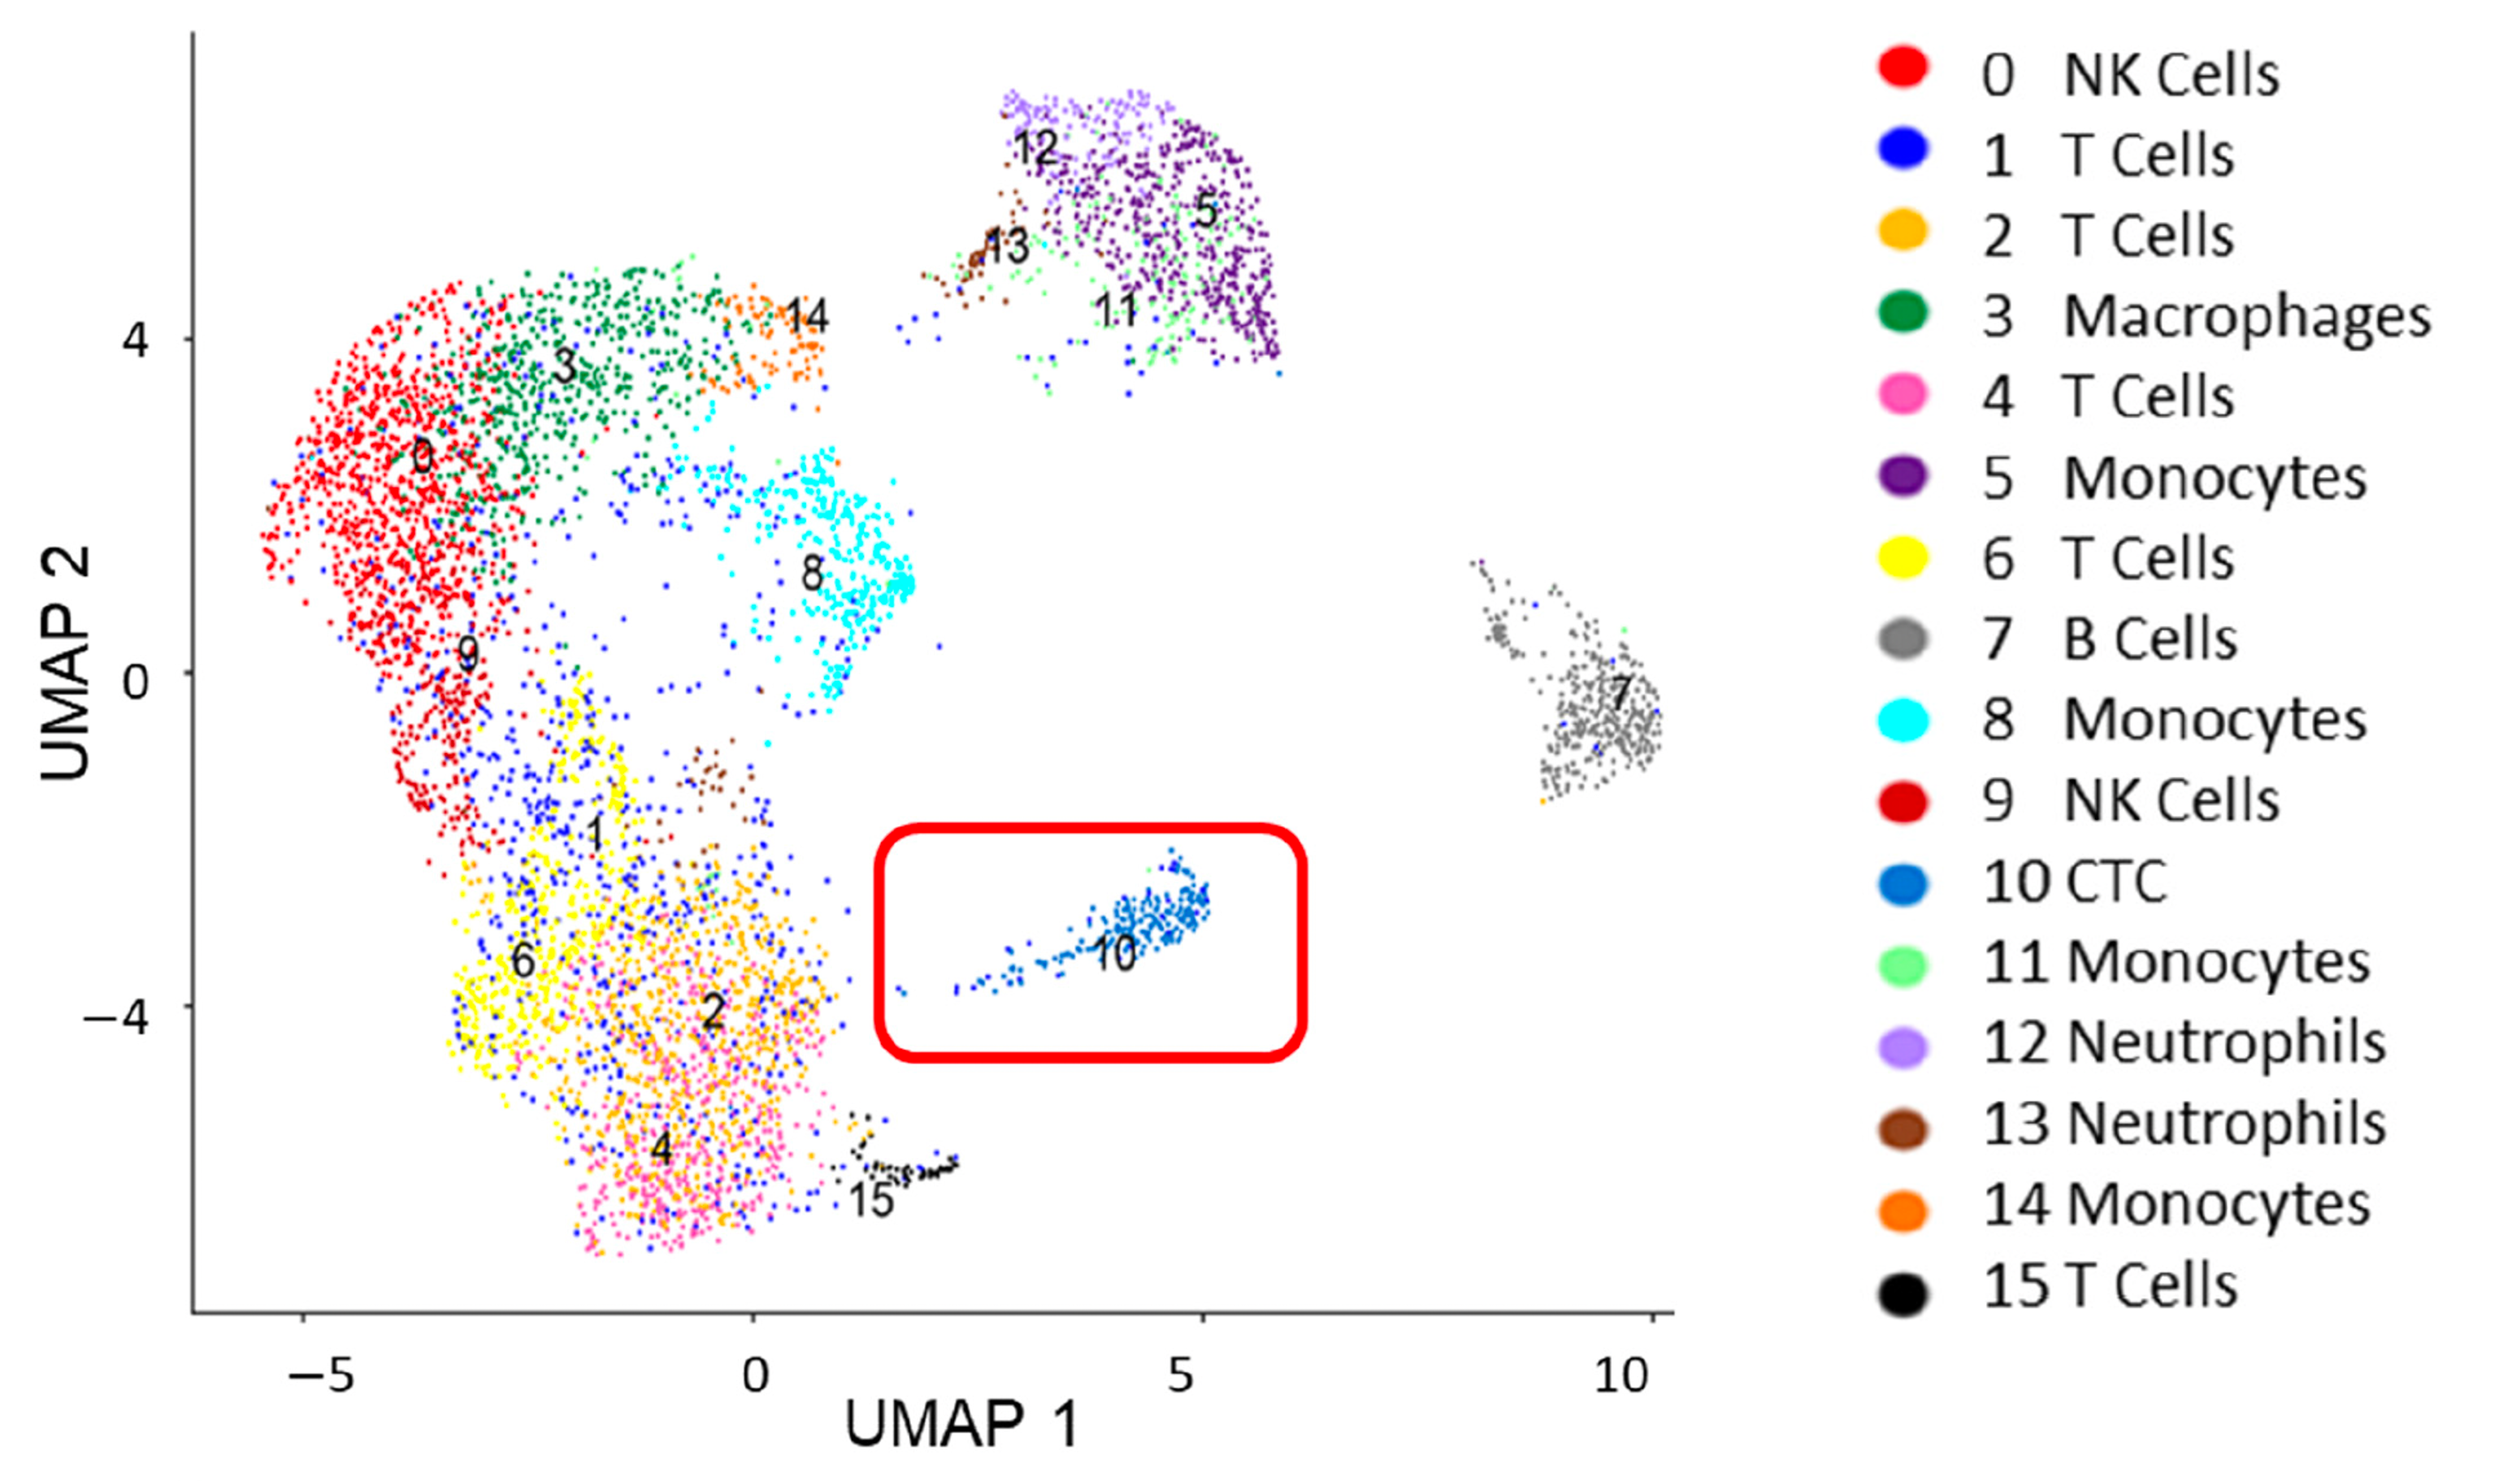
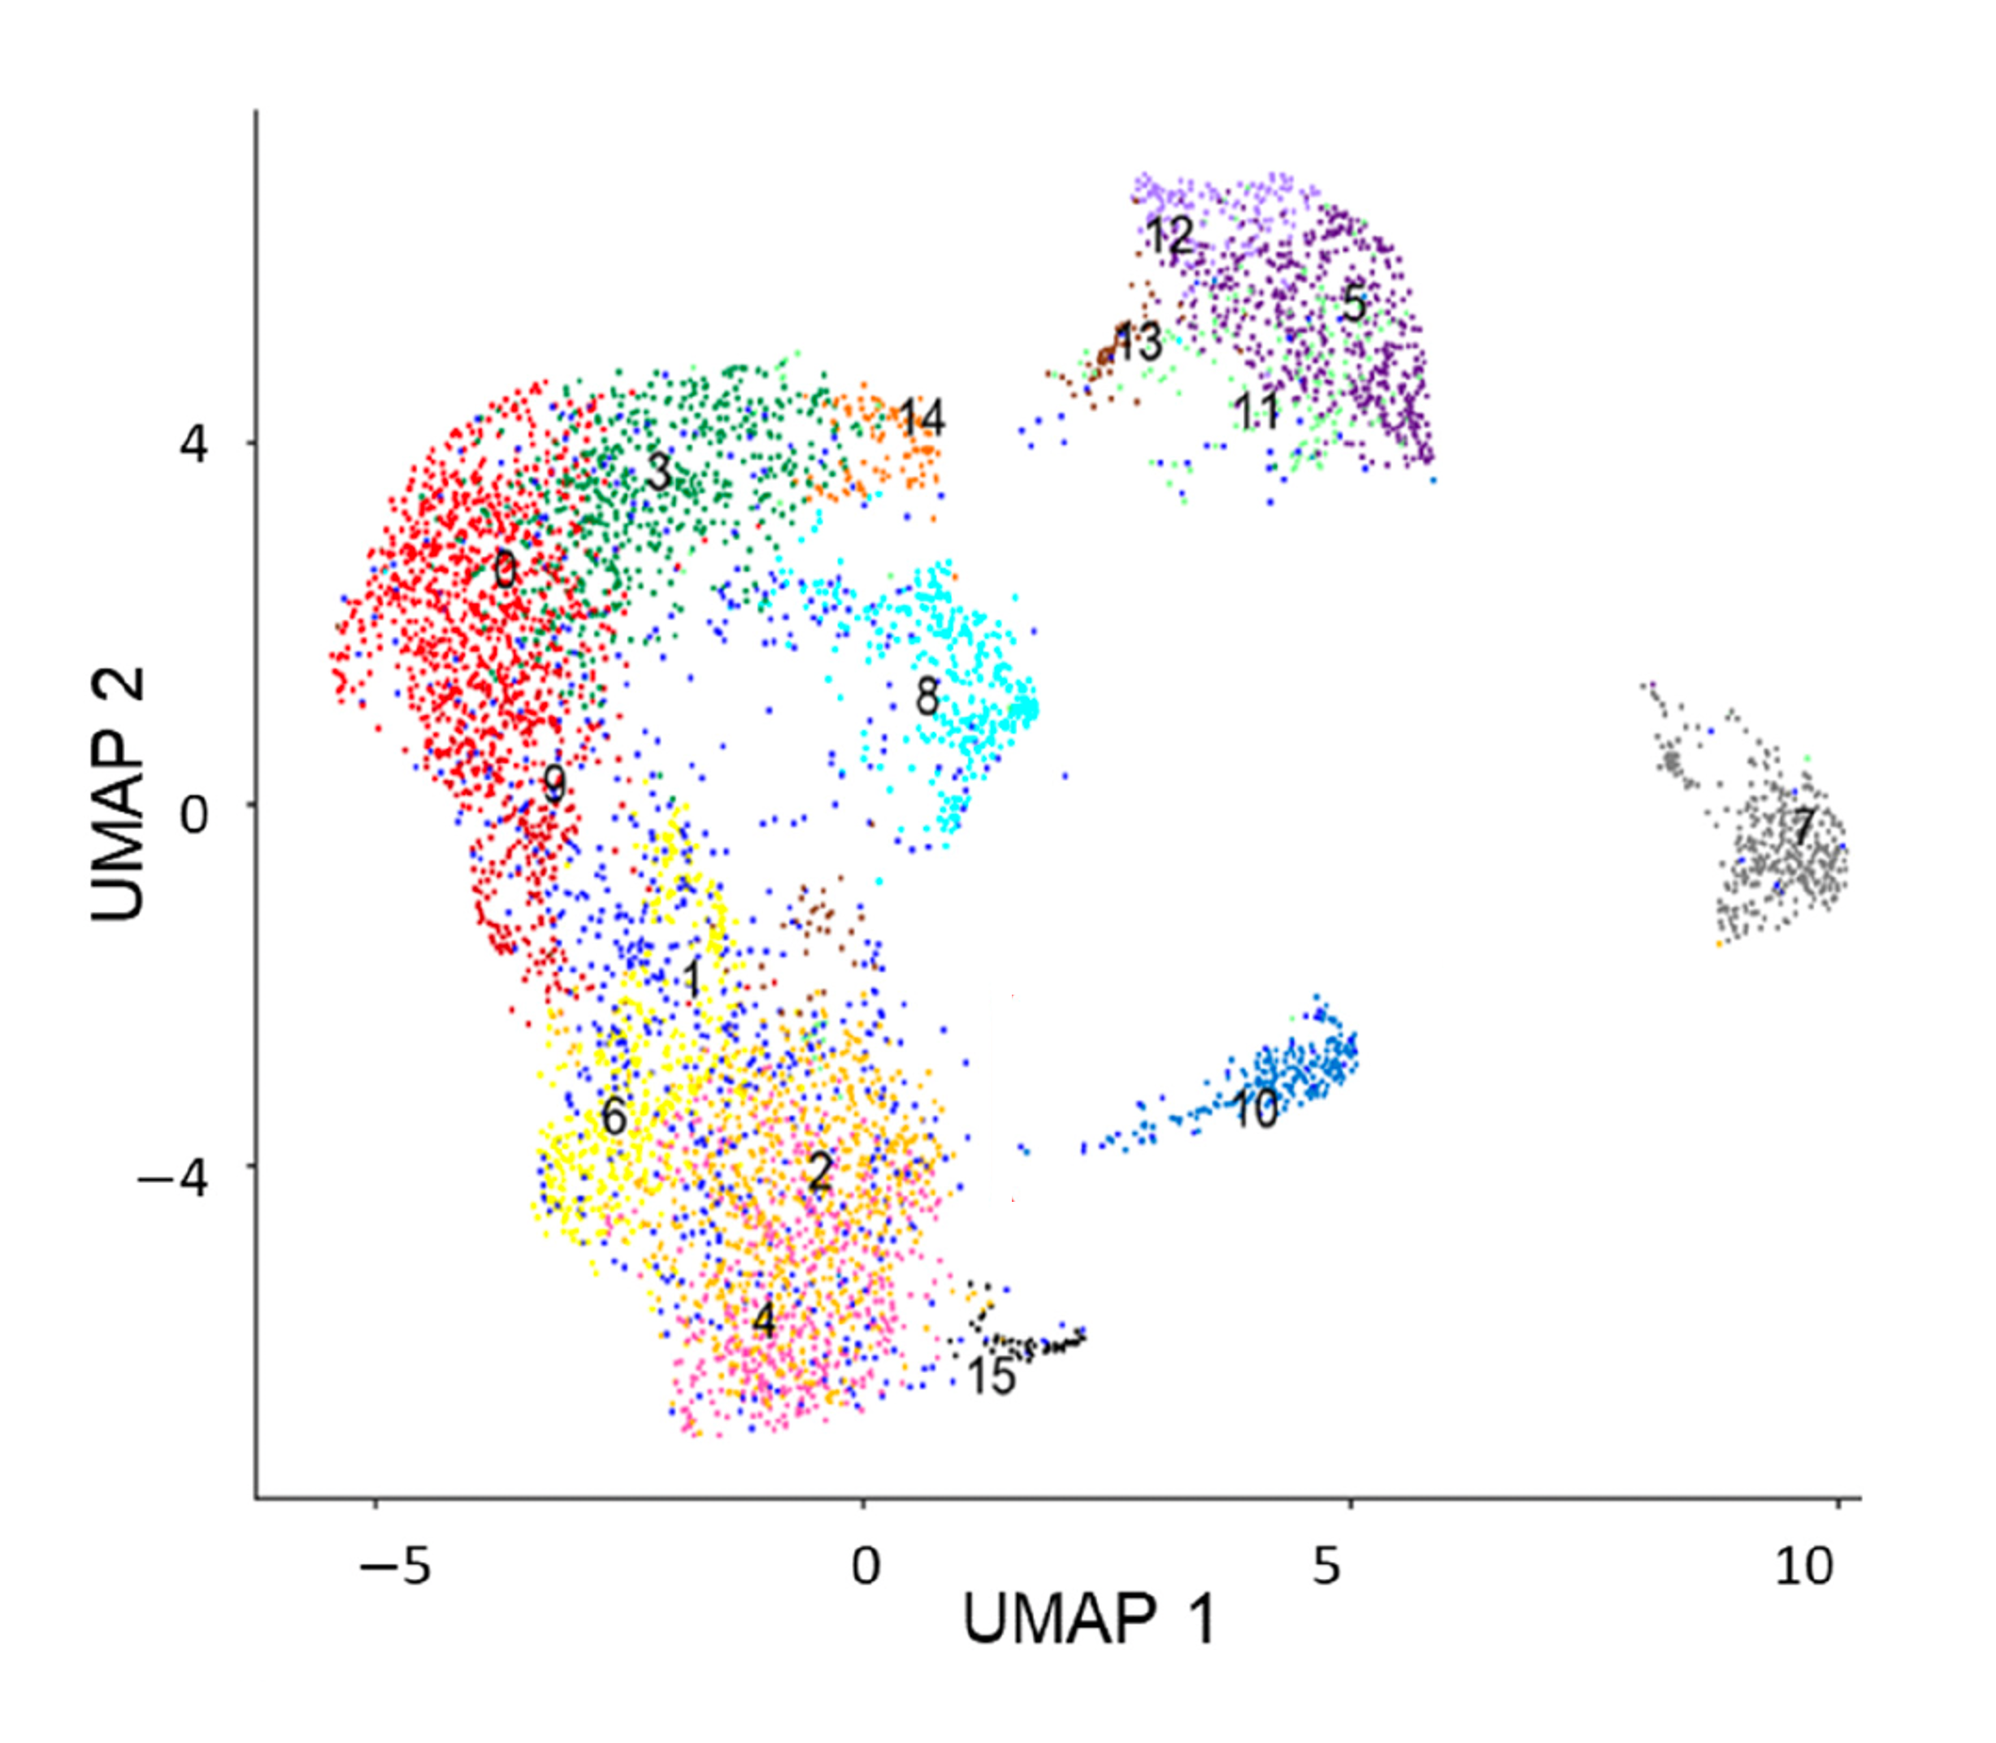
Update

diff --git a/mini-project/README.md b/mini-project/README.md
@@ -19,7 +19,7 @@ The goal is to analyze single-cell transcriptomics data from breast cancer patie
 **Task:** Download the raw count matrices and any necessary metadata from the study associated with PMC8508335.
 
 **Output:**
-* A brief description of where the data was located and the format of the downloaded files (e.g., `.mtx` file, `barcodes.tsv`, `features.tsv`).
+* A brief description of where the data was located and the format of the downloaded files (e.g., `.mtx`, `barcodes.tsv`, `features.tsv`).
 * The code or steps used to load the data into the chosen scRNA-seq analysis environment (e.g. AnnData object using Scanpy).
 
 ***
@@ -39,7 +39,6 @@ The goal is to analyze single-cell transcriptomics data from breast cancer patie
 **Output:**
 * A summary table of QC metrics before and after filtering.
 * A **UMAP plot** of the clustered cells, with each cluster clearly distinguishable by color, labeled with its assigned cluster number (0-N).
-* **Identify the CTC Cluster:** By visually comparing your generated UMAP plot with Figure 4 from the original paper, identify which of your clusters corresponds to the Circulating Tumor Cells (CTCs) (highlighted in the red box, labeled as **Cluster 10** in the paper's figure).
 
 ***
 
@@ -49,12 +48,15 @@ The goal is to analyze single-cell transcriptomics data from breast cancer patie
 
 1.  **Marker Identification:** Perform **Differential Expression (DE)** analysis to find **cluster-specific marker genes** for *all* clusters, especially the identified CTC cluster.
 2.  **Cell Type Annotation:** Assign an identity (e.g., T Cells, Monocytes, CTCs) to each cluster based on the expression of known lineage markers (e.g., *CD3D/CD3E* for T cells, *CD14/LYZ* for Monocytes, and epithelial markers for CTCs, as discussed in the workshop and paper).
+3. Draw a UMAP plot highlighting the putative CTC cluster and other non-CTC clusters.
 
 **Output:**
 * A list of the top 5-10 differentially expressed marker genes for the putative CTC cluster, and for a major immune cell cluster (e.g., T Cells).
 * An explanation of the logic used to annotate the CTC cluster, citing key marker genes. **Classical CTC definition markers** (*EPCAM*, Cytokeratins, absence of *PTPRC/CD45*) should be checked, as well as the unique markers identified in the study.
 * A **Violin Plot** demonstrating the expression level of key CTC markers (e.g., *EPCAM*, *CLDN7*, *TACSTD2*, *MGP*) across all clusters. This should aim to reproduce the characteristic expression pattern shown in Figure 6.
     * *Self-Correction/Critical Thinking:* Compare your results to the genes listed in the paper and discuss any similarities or discrepancies.
+
+![UMAP](./figures/fig-umap-annotated.png)
 
 ![Barplot](./figures/fig-violin.png)
 
@@ -69,7 +71,7 @@ The goal is to analyze single-cell transcriptomics data from breast cancer patie
 
 **Output:**
 * A list of the **top 20 most significantly upregulated genes** in the CTC cluster (based on high $\text{logFC}$ and low adjusted $p$-value).
-* The generated visualization (volcano plot or heatmap).
+* The generated visualization (volcano plot and/or heatmap).
 * A discussion on the biological function or significance of a few of the most highly expressed, novel genes found in the CTC cluster, potentially suggesting why they might be important for CTC biology (e.g., cell adhesion, survival, or metastasis).
 
 ***
